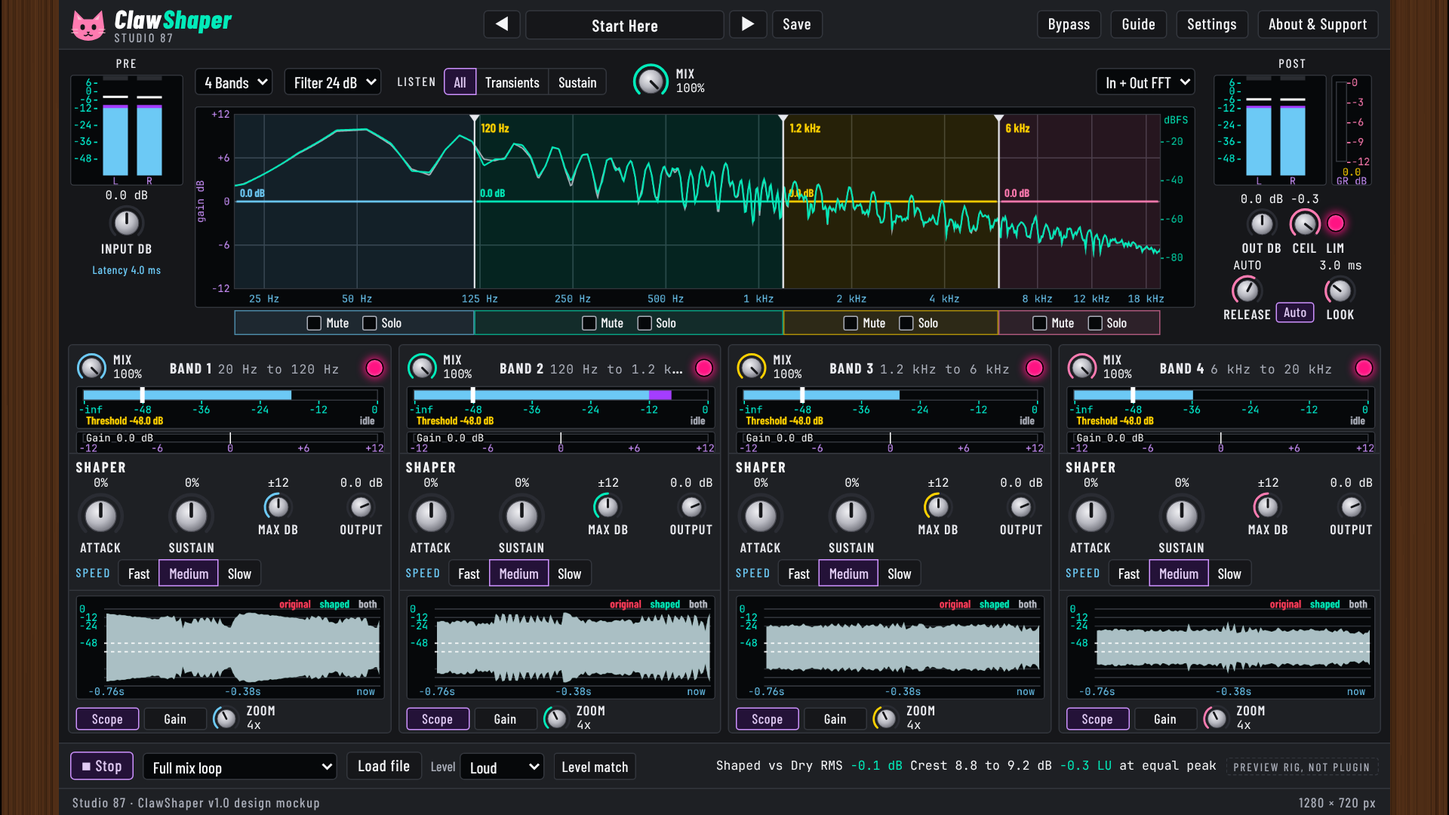
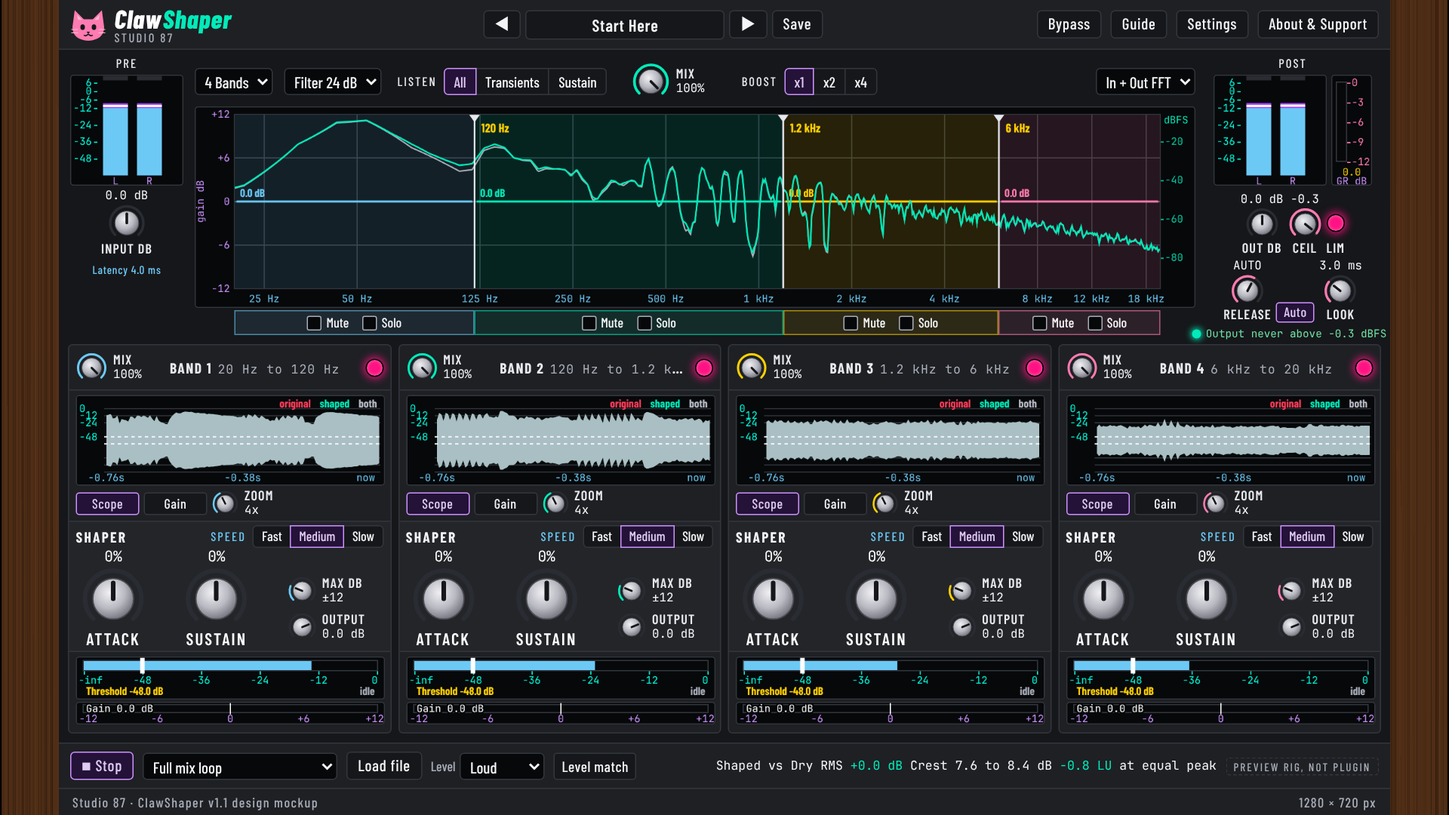
ClawShaper v1.1 mockup: Boost x1/x2/x4, Max dB to 48, visible output ceiling, shaper-first layout
Claude-Session: https://claude.ai/code/session_014jTCiZQibx9hUcNxrdBwQW

diff --git a/docs/mockup/ClawShaper.html b/docs/mockup/ClawShaper.html
@@ -177,6 +177,26 @@ canvas{display:block}
 .pb{height:410px}
 .pb{grid-template-columns:350px 1fr}
 
+.strip{display:flex;flex-direction:column}
+.strip .thead{padding:4px 6px 3px;border-bottom:1px solid var(--line);flex:none}
+.strip .dpart{flex:none;padding:4px 6px 2px}
+.strip .dpbot{margin-top:3px}
+.strip .cl{flex:none;height:auto;display:block;padding:2px 6px 4px;border-bottom:0;border-top:1px solid var(--line);background:rgba(255,255,255,.025)}
+.cl .shr{display:flex;align-items:center;justify-content:space-between;height:22px}
+.cl .shr .spd{margin-top:0}
+.cl .shr .seg button{height:20px;font-size:12px;padding:0 7px}
+.cl .krow{align-items:flex-end;justify-content:space-between;gap:6px;margin-top:0;padding:0 4px}
+.kb.hero .kv{font-size:13px;font-weight:600;height:15px;color:#fff}
+.kb.hero .kl{font-size:15px;letter-spacing:1.4px;color:#fff}
+.smallk{display:flex;flex-direction:column;gap:6px;justify-content:flex-end;padding-bottom:4px}
+.smallk .kb.h .kv{min-width:50px}
+.strip .tpart{flex:none;height:auto;border-top:1px solid var(--line);border-bottom:0;padding:4px 6px}
+.ceiln{font-size:11px;color:#6fe3a6;letter-spacing:.3px;display:flex;align-items:center;gap:5px;white-space:nowrap;margin-top:2px;font-family:var(--font-num)}
+.ceiln .lamp{width:8px;height:8px;border-radius:50%;background:#02EBBA;box-shadow:0 0 6px 1px #02EBBA;flex:none}
+.ceiln .lamp.off{background:#FF1383;box-shadow:0 0 6px 1px #FF1383}
+.ceiln{font-size:10px;letter-spacing:0;gap:4px;margin-top:0;max-width:156px;overflow:hidden}
+.ceiln{font-size:9.5px;max-width:none;overflow:visible;margin-left:-6px}
+
 </style>
 <div id="app" data-look="C">
   <div id="frame">
@@ -316,7 +336,7 @@ class Engine{
   this.anySolo=this.bp.some((b,i)=>i<this.nb&&b.solo);
   this.gMix=m.mix/100;this.gIn=D2L(m.inG);this.gOut=D2L(m.outG);this.ceil=D2L(m.lim.ceil);this.limOn=m.lim.on;this.limAuto=m.lim.auto;this.kLr=1-Math.exp(-1/(Math.max(1,m.lim.rel)*0.001*fs));
   this.LA=Math.max(1,Math.round(m.la*0.001*fs));if(this.LA!==this.mLL.la)this.mLL.setLA(this.LA);
-  this.lat=this.dLA+this.LA-1;this.listen=m.listen;this.bypass=!!m.byp}
+  this.lat=this.dLA+this.LA-1;this.listen=m.listen;this.boost=[1,2,4][m.boost|0];this.bypass=!!m.byp}
  /* ---- process one block, in place ---- */
  process(L,R,n){const fs=this.fs,nb=this.nb;let preP=0,postP=0,pl=0,pr=0,ql=0,qr=0,rpd=0,rpc=0;
   for(let i=0;i<n;i++){let xl=L[i],xr=R[i];
@@ -338,7 +358,7 @@ class Engine{
     const fdb=20*Math.log10(S.f+1e-6),sdb=20*Math.log10(S.s+1e-6),diff=fdb-sdb;          /* diff > 0: attack phase, diff < 0: sustain phase */
     S.lvl=fdb;S.diff=diff;
     let tg=0;if(p.on){const gate=clamp((fdb-p.thr)/GATE_W,0,1);S.gate=gate;
-     tg=(diff>0?p.atk*AK*softDz(diff):p.sus*SK*softDz(-diff))*gate;
+     tg=(diff>0?p.atk*AK*this.boost*softDz(diff):p.sus*SK*this.boost*softDz(-diff))*gate;
      if(p.lim>0.001)tg=p.lim*Math.tanh(tg/p.lim);else tg=0}
     S.cur+=(tg-S.cur)*(Math.abs(tg)>Math.abs(S.cur)?this.kGa:this.kGr);                  /* short attack / release on the gain: no zipper noise */
     const g=Math.exp(S.cur*0.1151293);
@@ -375,12 +395,12 @@ class Engine{
   this.bs.forEach(s=>{s.f=s.s=s.cur=0;s.wa=.5});this.bandDL.forEach(a=>a.forEach(d=>d.clear()));this.mixDry.forEach(d=>d.clear());this.dryTot.forEach(d=>d.clear());this.mLL.setLA(this.mLL.la===1?2:1);this.mLL.setLA(this.LA)}
 }
 /* default engine parameters (the UI builds the same object from the parameter table) */
-const DEFM=()=>({bands:4,slope:1,x:[120,1200,6000],mix:100,inG:0,outG:0,lim:{on:true,ceil:-0.3,rel:80,auto:true},la:3,listen:0,byp:false,
+const DEFM=()=>({bands:4,slope:1,x:[120,1200,6000],mix:100,inG:0,outG:0,lim:{on:true,ceil:-0.3,rel:80,auto:true},la:3,listen:0,boost:0,byp:false,
  b:[0,1,2,3].map(()=>({on:true,mute:false,solo:false,atk:0,sus:0,spd:1,thr:-48,max:12,outG:0,mix:100}))});
 
 
 /* ============ Product name: the only place the working name lives ============ */
-const NAME='ClawShaper', VERSION='1.0';   /* the only place the product name lives */
+const NAME='ClawShaper', VERSION='1.1';   /* the only place the product name lives */
 const REPO='SpeakingColors/clawshaper';
 const $=s=>document.querySelector(s), $$=s=>Array.from(document.querySelectorAll(s));
 const el=(t,c,h)=>{const e=document.createElement(t);if(c)e.className=c;if(h!==undefined)e.innerHTML=h;return e};
@@ -409,6 +429,7 @@ P('m.lAuto',0,1,1,{int:1,unit:'on/off',tip:'Auto release: the limiter lets go sl
 P('m.lRel',5,500,80,{log:1,unit:'ms',tip:'Limiter release in ms: how fast the limiter lets go after a peak. Used when Auto is off. 5 to 500 ms.'});
 P('m.la',1,7.5,3,{unit:'ms',tip:'Lookahead in ms, 1 to 7.5 (default 3). The limiter sees peaks this long before they play, so it can turn down smoothly. Longer is cleaner, shorter is lower latency. It sets the reported latency.'});
 P('m.listen',0,2,0,{int:1,ui:1,unit:'All/Transients/Sustain',tip:'Listen: hear the result (All), only the attack part (Transients) or only the sustain part (Sustain). The two parts add up to the shaped sound. Handy for setting a band by ear.'});
+P('m.boost',0,2,0,{int:1,unit:'x1/x2/x4',tip:'Boost: makes Attack and Sustain act harder, for extreme shaping. x1 is the normal range (default), x2 doubles and x4 quadruples how many dB each percent can add or take away. Raise a band Max dB to let it go further. The limiter at the end still keeps the output under the Ceiling.'});
 P('m.fft',0,3,1,{int:1,ui:1,unit:'off/in+out/in/out',tip:'Spectrum behind the bands. In + Out shows the input in grey and the output in green. The scale on the right is dBFS.'});
 for(let i=0;i<4;i++){const b='b'+i+'.',n='Band '+(i+1)+': ';
  P(b+'on',0,1,1,{int:1,unit:'on/off',tip:n+'power. Off lets the band pass untouched (it still goes through the crossover).'});
@@ -418,7 +439,7 @@ for(let i=0;i<4;i++){const b='b'+i+'.',n='Band '+(i+1)+': ';
  P(b+'sus',-100,100,0,{unit:'%',tip:n+'Sustain. Plus makes what comes after the hit louder (longer, fuller tails). Minus makes it shorter and tighter. 0 leaves it alone. Double-click for 0.'});
  P(b+'spd',0,2,1,{int:1,unit:'fast/medium/slow',tip:n+'Speed of the two level followers that tell the hit from the tail. Fast suits short clicks and hats, Medium suits most things, Slow suits long bass and pads.'});
  P(b+'thr',-60,0,-48,{unit:'dB',tip:n+'Threshold. Below this level the shaper does nothing, so quiet noise is not boosted. Drag the white slider on the level meter. Double-click it for -48.'});
- P(b+'max',0,24,12,{unit:'dB',tip:n+'Max gain: the most this band can be turned up or down by the shaper, in dB (0 to 24, default 12). Keeps strong settings from running away.'});
+ P(b+'max',0,48,12,{unit:'dB',tip:n+'Max gain: the most this band can be turned up or down by the shaper, in dB (0 to 48, default 12). Keeps strong settings from running away.'});
  P(b+'outG',-24,8,0,{unit:'dB',tip:n+'Output gain in dB, after the shaper and before the bands are added together. Double-click for 0.'});
  P(b+'mix',0,100,100,{unit:'%',tip:n+'Mix: shaped band against the untouched band (aligned in time). 100% is fully shaped.'});
  P(b+'view',0,1,0,{int:1,ui:1,unit:'scope/gain',tip:'Display: scope or gain history.'});
@@ -429,7 +450,7 @@ const posOf=(id,v)=>{const p=PS[id];return p.log?Math.log(v/p.min)/Math.log(p.ma
 const valOf=(id,t)=>{const p=PS[id];t=clamp(t,0,1);let v=p.log?p.min*Math.pow(p.max/p.min,t):p.min+t*(p.max-p.min);return p.int?Math.round(v):v};
 /* state to engine parameters */
 const xOf=()=>[st['m.x1'],st['m.x2'],st['m.x3']];
-function coreM(){return{bands:st['m.bands'],slope:st['m.slope'],x:xOf(),mix:st['m.mix'],inG:st['m.inG'],outG:st['m.outG'],lim:{on:!!st['m.limOn'],ceil:st['m.ceil'],rel:st['m.lRel'],auto:!!st['m.lAuto']},la:st['m.la'],listen:st['m.listen'],byp:!!st['m.byp'],
+function coreM(){return{bands:st['m.bands'],slope:st['m.slope'],x:xOf(),mix:st['m.mix'],inG:st['m.inG'],outG:st['m.outG'],lim:{on:!!st['m.limOn'],ceil:st['m.ceil'],rel:st['m.lRel'],auto:!!st['m.lAuto']},la:st['m.la'],listen:st['m.listen'],boost:st['m.boost'],byp:!!st['m.byp'],
  b:[0,1,2,3].map(i=>{const b='b'+i+'.';return{on:!!st[b+'on'],mute:!!st[b+'mute'],solo:!!st[b+'solo'],atk:st[b+'atk'],sus:st[b+'sus'],spd:st[b+'spd'],thr:st[b+'thr'],max:st[b+'max'],outG:st[b+'outG'],mix:st[b+'mix']}})}}
 /* ============ Formatting ============ */
 const fHz=v=>v>=1000?(v/1000).toFixed(v>=10000?1:2).replace(/\.?0+$/,'')+' kHz':(v>=100?Math.round(v):v.toFixed(1).replace(/\.0$/,''))+' Hz';
@@ -500,6 +521,7 @@ const lr2=el('div','limrow');colR.appendChild(lr2);
 knob(lr2,{id:'m.lRel',label:'Release',size:30,fmt:v=>st['m.lAuto']?'AUTO':fMs(v),color:'#FF7BB1'});
 {const w=el('div','kb');w.appendChild(el('div','kv',''));const t=toggle(w,'m.lAuto','Auto');t.style.cssText='margin:8px 0 0;height:18px';t.dataset.tip=PS['m.lAuto'].tip;w.appendChild(el('div','kl',''));w.dataset.tip=PS['m.lAuto'].tip;lr2.appendChild(w)}
 knob(lr2,{id:'m.la',label:'Look',size:30,fmt:v=>v.toFixed(1)+' ms',color:'#FF7BB1'});
+const ceilNote=el('div','ceiln','');ceilNote.dataset.tip='The limiter is always the last stage, whatever Mix, Boost, Max dB or Output gain you set: nothing leaves the plugin above the Ceiling. Change the Ceiling with the Ceil knob (-12 to 0 dB), or switch the limiter off with the Lim lamp.';colR.appendChild(ceilNote);
 /* ---- centre ---- */
 const ctr=el('div','ctr');
 const gtop=el('div','gtop');ctr.appendChild(gtop);
@@ -508,6 +530,7 @@ selectBox(gtop,'m.slope',SLOPE_LAB,PS['m.slope'].tip);
 {const lw=el('div','lst');lw.style.cssText='display:flex;align-items:center;gap:6px';lw.dataset.tip=PS['m.listen'].tip;lw.appendChild(el('span','cap','Listen'));
  seg(lw,'m.listen',['All','Transients','Sustain'],['Hear the shaped result, as it will leave the plugin (Mix applies).','Hear only the attack part of the shaped sound: the shaped sound minus its sustain part. Mix is ignored while listening.','Hear only the sustain part of the shaped sound (what is left after the attack part is taken away). Mix is ignored while listening.']);gtop.appendChild(lw)}
 knob(gtop,{id:'m.mix',label:'Mix',size:34,cls:'h mixk',fmt:fPct});
+{const bw=el('div','lst');bw.style.cssText='display:flex;align-items:center;gap:6px';bw.dataset.tip=PS['m.boost'].tip;bw.appendChild(el('span','cap','Boost'));seg(bw,'m.boost',['x1','x2','x4'],['Normal range (default).','Double: Attack and Sustain push twice as many dB per percent.','Four times: extreme shaping. Raise Max dB on a band to let it go further. The limiter still holds the Ceiling.']);gtop.appendChild(bw)}
 const gright=el('div','gright');gtop.appendChild(gright);
 selectBox(gright,'m.fft',['FFT off','In + Out FFT','Input FFT','Output FFT'],PS['m.fft'].tip);
 const cvG=el('canvas','cv');cvG.style.touchAction='none';cvG.dataset.tip='Frequency view, 20 Hz to 20 kHz. Drag the vertical dividers to move the crossovers. The coloured line in each band is the gain the shaper applies right now (left scale, -12 to +12 dB). Right scale: spectrum in dBFS.';ctr.appendChild(cvG);
@@ -522,28 +545,35 @@ const p1grid=el('div','p1');p1.appendChild(p1grid);p1grid.appendChild(colL);p1gr
 const strips=el('div','strips');p1.appendChild(strips);
 const S=[];
 const SW=271;
+const SCH=78;
 for(let i=0;i<4;i++){const b='b'+i+'.',col=BC[i];const so={};S.push(so);
  const strip=el('div','strip');so.el=strip;strips.appendChild(strip);
- const tp=el('div','tpart');strip.appendChild(tp);const l1=el('div','l1');tp.appendChild(l1);
+ /* 1 header */
+ const hd1=el('div','thead');strip.appendChild(hd1);const l1=el('div','l1');hd1.appendChild(l1);
  knob(l1,{id:b+'mix',label:'Mix',size:28,cls:'h',fmt:fPct,color:col});
  so.nm=el('div','bname','');so.nm.dataset.tip='Band '+(i+1)+' and the range of sound it works on. Move the crossovers in the graph to change it.';l1.appendChild(so.nm);
  powerBtn(l1,b+'on');
- so.cvIn=el('canvas','cv');so.cvIn.dataset.tip='Band level in dB (before shaping) with the Threshold slider. Drag the white slider: below it the shaper does nothing, so quiet noise is not boosted. The word on the right says whether the shaper is working right now. Scale in dB.';tp.appendChild(so.cvIn);so.cvIn.style.touchAction='none';so.gIn=hd(so.cvIn,SW,36,true);
- so.cvGr=el('canvas','cv');so.cvGr.dataset.tip='Gain change of this band: how many dB the shaper is turning the band up (right, gold) or down (left, purple) right now. Scale -12 to +12 dB.';tp.appendChild(so.cvGr);so.gGr=hd(so.cvGr,SW,18,true);so.cvGr.style.marginTop='2px';
- const cl=el('div','cl');strip.appendChild(cl);
- const th=el('div','st','SHAPER');cl.appendChild(th);
- const r1=el('div','krow');cl.appendChild(r1);
- knob(r1,{id:b+'atk',label:'Attack',size:44,color:col,fmt:fSgn});
- knob(r1,{id:b+'sus',label:'Sustain',size:44,color:col,fmt:fSgn});
- knob(r1,{id:b+'max',label:'Max dB',size:28,color:col,fmt:v=>'±'+v.toFixed(0)});
- knob(r1,{id:b+'outG',label:'Output',size:28,color:col,fmt:v=>fDb(v)});
- const r2=el('div','spd');cl.appendChild(r2);r2.appendChild(el('span','cap','Speed'));
- seg(r2,b+'spd',['Fast','Medium','Slow'],['Fast detectors: for short clicks, hats and snappy drums.','Medium detectors: a good start for most sounds.','Slow detectors: for long bass notes, pads and lead tails.']);
+ /* 2 the transient picture: scope on top */
  const dp=el('div','dpart');strip.appendChild(dp);
- so.cvSc=el('canvas','cv');so.cvSc.dataset.tip='Band display. Scope: red is the original band, green is the shaped band, grey is where they overlap, shown as a waveform shape in dB over the last seconds. Gain: how much the band was turned up or down over time, in dB. Choose with the buttons below; Zoom changes the time span.';dp.appendChild(so.cvSc);so.gSc=hd(so.cvSc,SW,90,true);
+ so.cvSc=el('canvas','cv');so.cvSc.dataset.tip='Transient picture of this band. Scope: red is the original band, green is the shaped band, grey is where they overlap, as a waveform shape in dB over the last seconds. Gain: how much the band was turned up or down over time, in dB. Choose with the buttons below; Zoom changes the time span.';dp.appendChild(so.cvSc);so.gSc=hd(so.cvSc,SW,SCH,true);
  const bt=el('div','dpbot');dp.appendChild(bt);
  [['Scope','Scope view: red is the original band, green the shaped band, grey where they overlap, as a waveform shape in dB.'],['Gain','Gain view: how many dB the shaper turned this band up or down over the last seconds.']].forEach(([t,tip],k)=>{const x=el('button','tgb',t);x.style.width='56px';x.dataset.tip=tip;x.onclick=()=>setP(b+'view',k,true);bt.appendChild(x);ctls.push({refresh(){x.classList.toggle('on',st[b+'view']===k)}})});
- knob(bt,{id:b+'zoom',label:'Zoom',size:26,color:col,fmt:v=>Math.round(1+v*7)+'x',cls:'h'});
+ knob(bt,{id:b+'zoom',label:'Zoom',size:24,color:col,fmt:v=>Math.round(1+v*7)+'x',cls:'h'});
+ /* 3 the shaper: the hero */
+ const cl=el('div','cl');strip.appendChild(cl);
+ const th=el('div','shr');cl.appendChild(th);th.appendChild(el('div','st','SHAPER'));
+ const r2=el('div','spd');th.appendChild(r2);r2.appendChild(el('span','cap','Speed'));
+ seg(r2,b+'spd',['Fast','Medium','Slow'],['Fast detectors: for short clicks, hats and snappy drums.','Medium detectors: a good start for most sounds.','Slow detectors: for long bass notes, pads and lead tails.']);
+ const r1=el('div','krow');cl.appendChild(r1);
+ knob(r1,{id:b+'atk',label:'Attack',size:58,color:col,fmt:fSgn,cls:'hero'});
+ knob(r1,{id:b+'sus',label:'Sustain',size:58,color:col,fmt:fSgn,cls:'hero'});
+ const sm=el('div','smallk');r1.appendChild(sm);
+ knob(sm,{id:b+'max',label:'Max dB',size:26,color:col,fmt:v=>'±'+v.toFixed(0),cls:'h'});
+ knob(sm,{id:b+'outG',label:'Output',size:26,color:col,fmt:v=>fDb(v),cls:'h'});
+ /* 4 secondary: level meter with threshold, gain change */
+ const tp=el('div','tpart');strip.appendChild(tp);
+ so.cvIn=el('canvas','cv');so.cvIn.dataset.tip='Band level in dB (before shaping) with the Threshold slider. Drag the white slider: below it the shaper does nothing, so quiet noise is not boosted. The word on the right says whether the shaper is working right now. Scale in dB.';tp.appendChild(so.cvIn);so.cvIn.style.touchAction='none';so.gIn=hd(so.cvIn,SW,36,true);
+ so.cvGr=el('canvas','cv');so.cvGr.dataset.tip='Gain change of this band: how many dB the shaper is turning the band up (right, gold) or down (left, purple) right now. Scale -12 to +12 dB.';tp.appendChild(so.cvGr);so.gGr=hd(so.cvGr,SW,18,true);so.cvGr.style.marginTop='2px';
 }
 /* ============ Graph interaction and drawing ============ */
 const DBT=[12,6,0,-6,-12],YDB=d=>GY0+(12-clamp(d,-12,12))/24*(GY1-GY0);
@@ -618,7 +648,7 @@ function drawStrips(){const n=st['m.bands'];
    [[-12,'-12'],[-6,'-6'],[0,'0'],[6,'+6'],[12,'+12']].forEach(([d,t])=>{g.fillText(t,clamp(X(d),10,w-8),h-1)});g.textAlign='left';g.lineWidth=3;g.strokeStyle=T.disp;const tx='Gain '+fDb(bs.cur);g.strokeText(tx,8,8);g.fillStyle='#fff';g.fillText(tx,8,8);g.lineWidth=1}
   const v=st[b+'view'];if(v===0)drawScope(i);else drawGainHist(i)}}
 function legend(g,w){g.font='700 10px Barlow Condensed,sans-serif';g.textAlign='right';let x=w-6;[['both','#b9bcc6'],['shaped','#02EBBA'],['original','#FF3D5A']].forEach(([t,c])=>{g.fillStyle=c;g.fillText(t,x,10);x-=g.measureText(t).width+8})}
-function drawScope(i){const g=S[i].gSc,w=SW,h=90,bs=eng.bs[i],b='b'+i+'.';g.fillStyle=T.disp;g.fillRect(0,0,w,h);const N=Math.round(480/(1+st[b+'zoom']*7)),cy=h/2,A=(h-22)/2;
+function drawScope(i){const g=S[i].gSc,w=SW,h=SCH,bs=eng.bs[i],b='b'+i+'.';g.fillStyle=T.disp;g.fillRect(0,0,w,h);const N=Math.round(480/(1+st[b+'zoom']*7)),cy=h/2,A=(h-22)/2;
  const ampY=a=>clamp((L2D(a)+54)/54,0,1)*A;
  g.strokeStyle=T.line;g.lineWidth=1;g.fillStyle='#01FCDC';g.font='9px JetBrains Mono,monospace';g.textAlign='left';
  [0,-12,-24,-48].forEach(d=>{const y=cy-(d+54)/54*A;g.beginPath();g.moveTo(24,y);g.lineTo(w-3,y);g.stroke();g.beginPath();g.moveTo(24,2*cy-y);g.lineTo(w-3,2*cy-y);g.stroke();g.fillText(String(d),2,y+3)});
@@ -628,7 +658,7 @@ function drawScope(i){const g=S[i].gSc,w=SW,h=90,bs=eng.bs[i],b='b'+i+'.';g.fill
  path(bs.scI,'#FF3D5A',.85);path(bs.scO,'#02EBBA',.85);path(mn,'#b9bcc6',.9);
  const thr=st[b+'thr'],ty=cy-(clamp(thr,-54,0)+54)/54*A;g.strokeStyle='#fff';g.setLineDash([3,3]);g.beginPath();g.moveTo(24,ty);g.lineTo(w-3,ty);g.stroke();g.beginPath();g.moveTo(24,2*cy-ty);g.lineTo(w-3,2*cy-ty);g.stroke();g.setLineDash([]);
  g.fillStyle='#6CC9F5';g.textAlign='center';g.font='9px JetBrains Mono,monospace';const secs=N*0.006;[1,.5,0].forEach((f,k)=>{g.fillText(f===0?'now':'-'+(secs*f).toFixed(2)+'s',clamp(26+(1-f)*(w-30),24,w-16),h-3)});legend(g,w)}
-function drawGainHist(i){const g=S[i].gSc,w=SW,h=90,b='b'+i+'.',N=Math.round(360/(1+st[b+'zoom']*7)),h0=eng.grHist[i],Y=d=>7+(12-clamp(d,-12,12))/24*(h-26);g.fillStyle=T.disp;g.fillRect(0,0,w,h);g.strokeStyle=T.line;g.fillStyle='#CD92FE';g.font='9px JetBrains Mono,monospace';g.textAlign='left';
+function drawGainHist(i){const g=S[i].gSc,w=SW,h=SCH,b='b'+i+'.',N=Math.round(360/(1+st[b+'zoom']*7)),h0=eng.grHist[i],Y=d=>7+(12-clamp(d,-12,12))/24*(h-26);g.fillStyle=T.disp;g.fillRect(0,0,w,h);g.strokeStyle=T.line;g.fillStyle='#CD92FE';g.font='9px JetBrains Mono,monospace';g.textAlign='left';
  [12,6,0,-6,-12].forEach(d=>{g.strokeStyle=d===0?'#4a4d55':T.line;g.beginPath();g.moveTo(26,Y(d));g.lineTo(w-3,Y(d));g.stroke();g.fillText((d>0?'+':'')+d,2,Y(d)+3)});
  g.beginPath();g.moveTo(26,Y(0));for(let k=0;k<N;k++){const v=h0[(eng.ghN+360-N+k)%360];g.lineTo(26+k/(N-1)*(w-30),Y(v))}g.lineTo(w-4,Y(0));g.closePath();g.fillStyle=hex2rgba(BC[i],.35);g.fill();g.strokeStyle=BC[i];g.lineWidth=1.6;g.stroke();
  g.fillStyle='#6CC9F5';g.textAlign='center';const secs=N/60;[1,.5,0].forEach(f=>{g.fillText(f===0?'now':'-'+(secs*f).toFixed(1)+'s',clamp(26+(1-f)*(w-30),26,w-14),h-3)})}
@@ -641,7 +671,7 @@ S.forEach((S1,i)=>{const ci=S1.cvIn;let td=false;const tset=e=>{const r=ci.getBo
 const TYPES=['Drums','Bass','Lead','Bus','Creative','Utility'];
 const SRCNAME={mix:'Full mix loop',kick:'Kick only',kb:'Kick + offbeat bass',drums:'Drum loop',bass:'Offbeat bass',lead:'Supersaw lead'};
 /* CS(name, type, tags, best source in the rig, global settings, per band settings) */
-function CS(name,type,tags,tryOn,g,bs){const p={};const G={bands:'m.bands',mix:'m.mix',ceil:'m.ceil',limOn:'m.limOn',inG:'m.inG',outG:'m.outG',la:'m.la',lAuto:'m.lAuto',lRel:'m.lRel'};
+function CS(name,type,tags,tryOn,g,bs){const p={};const G={bands:'m.bands',mix:'m.mix',ceil:'m.ceil',limOn:'m.limOn',inG:'m.inG',outG:'m.outG',la:'m.la',lAuto:'m.lAuto',lRel:'m.lRel',boost:'m.boost'};
  for(const k in g)if(G[k])p[G[k]]=g[k];
  if(g.slope)p['m.slope']=SLOPES.indexOf(g.slope);if(g.x)g.x.forEach((v,i)=>p['m.x'+(i+1)]=v);
  (bs||[]).forEach((o,i)=>{if(!o)return;for(const k in o)p['b'+i+'.'+k]=o[k]});
@@ -662,6 +692,9 @@ const FACT=[
  CS('Soften Harsh Attacks','Bus',['soften','harsh','de-click'],'lead',{bands:4,slope:24,x:[150,1500,5000]},[{},{},{atk:-30,spd:1},{atk:-50,spd:0,thr:-54}]),
  CS('Room Away','Utility',['room','dry','tail'],'drums',{bands:3,slope:24,x:[150,8000]},[{},{sus:-50,spd:1},{sus:-30,spd:0}]),
  CS('Offbeat Chop','Creative',['bass','chop','gate'],'bass',{bands:2,slope:24,x:[250]},[{atk:30,sus:-90,spd:0,max:24},{sus:-60,spd:0}]),
+ CS('Kick Smash','Creative',['kick','extreme','boost'],'kick',{bands:3,slope:24,x:[90,4000],boost:2,ceil:-0.5},[{atk:60,sus:-60,spd:1,max:36},{atk:100,sus:-70,spd:0,max:48},{atk:70,spd:0,max:30}]),
+ CS('Sustain Bloom','Creative',['sustain','extreme','boost'],'drums',{bands:3,slope:24,x:[200,5000],boost:2,ceil:-0.5},[{sus:60,spd:2,thr:-54,max:30},{sus:100,spd:1,thr:-54,max:48},{sus:70,spd:0,thr:-56,max:36}]),
+ CS('Pluck Slam','Lead',['lead','pluck','extreme'],'lead',{bands:2,slope:24,x:[250],boost:1,ceil:-0.5},[{atk:50,sus:-30,spd:1,max:30},{atk:100,sus:-50,spd:0,max:36}]),
  CS('Mastering Touch','Bus',['master','gentle','glue'],'mix',{bands:4,slope:24,x:[120,1200,6000],ceil:-0.3},[{atk:8,sus:5,spd:2,max:3},{atk:8,sus:5,spd:2,max:3},{atk:8,sus:5,spd:2,max:3},{atk:8,sus:5,spd:2,max:3}])
 ];
 let userP=[];
@@ -734,6 +767,7 @@ function syncUI(){normX();
  ctls.forEach(c=>c.refresh());layoutMS();
  const ed=bandEdges(),nb=st['m.bands'];
  S.forEach((s,i)=>{s.nm.innerHTML='BAND '+(i+1)+(i<nb?'<small>'+fHz(ed[i])+' to '+fHz(ed[i+1])+'</small>':'<small>unused</small>')});
+ ceilNote.innerHTML=st['m.limOn']?'<span class="lamp"></span>Output never above '+st['m.ceil'].toFixed(1)+' dBFS':'<span class="lamp off"></span>Limiter off: output not capped';
  app.classList.toggle('ro-off',!sys.ro);
  latTxt.textContent='Latency '+(eng.lat/eng.fs*1000).toFixed(1)+' ms';
  const dirty=isDirty();$('#pName').textContent=curName+(dirty?' *':'');
@@ -753,12 +787,12 @@ $('#bGuide').onclick=()=>openModal('Guide',`<div class="gcols"><div><h3 class="g
 <li><b>A transient shaper with split bands.</b> It turns the first hit of a sound (Attack) and what comes after it (Sustain) up or down, in up to four frequency bands, so you choose which part of the sound it works on. A limiter at the end keeps the level safe.</li>
 <li><b>How it tells hit from tail:</b> two level followers, a fast one and a slow one, watch each band. When the fast one is above the slow one a hit is starting (attack). When it is below, the sound is dying away (sustain). The difference in dB, not the level, drives the gain, so it works the same on quiet and loud material.</li>
 <li><b>Threshold</b> keeps it from boosting noise: below it the band is left alone. <b>Max dB</b> limits how far a band can be pushed.</li>
-<li><b>Listen:</b> Transients plays only the attack part, Sustain only the rest; the two add up to the shaped sound.</li>
+<li><b>Boost</b> (x1, x2, x4) multiplies how hard Attack and Sustain act; x1 is the normal range. Max dB goes up to 48. The limiter always comes last, so the output never goes above the Ceiling, even at the most extreme setting.</li><li><b>Listen:</b> Transients plays only the attack part, Sustain only the rest; the two add up to the shaped sound.</li>
 <li><b>Mix</b> blends against the true input, delayed to match, so Mix 0% is exactly the input. Not affiliated with anyone.</li></ul>
 <h3 class="gh">Where to start</h3><ul class="gl"><li>Load Start Here, play Kick only or Drum loop, set a band to Attack +50, then press <kbd>B</kbd> to compare. Try Listen: Transients to hear what you are boosting.</li><li>Thicken a lead: Supersaw Body or Lead Thicken, then play Supersaw lead.</li></ul>
 <h3 class="gh">Keys</h3><table><tr><td><kbd>Space</kbd></td><td>Play or stop the preview</td></tr><tr><td><kbd>B</kbd></td><td>Bypass (A/B)</td></tr><tr><td><kbd>[</kbd> <kbd>]</kbd></td><td>Previous or next preset</td></tr><tr><td>Knobs</td><td>Drag, wheel, arrows; Shift for fine; double-click resets</td></tr></table></div>
 <div><h3 class="gh">What is verified and what is ours</h3><p><span class="vt">Given to us by the maker (the brief):</span> the control set (Input and Output gain, Mix, 1 to 4 bands with draggable crossovers, slope menu 12 to 96 dB/oct with 24 as default, per band On, Mute, Solo, Attack, Sustain, Speed, Threshold, Max gain, Output and Mix, Listen All, Transients or Sustain, limiter with Ceiling, Release with Auto and Lookahead 1 to 7.5 ms with 3 as default), the scope colours (red original, green shaped, grey overlap), and dB scales on every meter. The crossover, limiter and spectrum code is reused from our MultiPaw mockup, where the bands were tested to add back flat.</p>
-<p><span class="ou">Ours (our own DSP choices; we had no source for any commercial transient shaper):</span> everything that decides the sound. Two peak followers on the stereo linked rectified band signal (fast about 1 ms attack and 20 ms release, slow about 20 ms and 120 ms at Medium; Fast and Slow scale them; low bands are slowed down so a bass tone is not mistaken for hits). Difference in dB, 1 dB dead zone, Attack gain 1.5 dB per dB of difference at 100%, Sustain 4 dB per dB at 100%, soft limit at Max dB, gain smoothing 0.5 ms up and 5 ms down, soft gate over the Threshold. The audio is delayed 1 ms against the detector so the gain is ready when a hit arrives. Listen weights the attack and sustain parts by how far the difference is from zero (6 dB wide cross-fade). Crossovers are Linkwitz-Riley with all-pass compensation. The limiter is a lookahead limiter with a sliding minimum and a moving average; Auto release is 30 ms plus 10 ms per dB of reduction. The factory presets are starting points: we measured them, we cannot listen.</p>
+<p><span class="ou">Ours (our own DSP choices; we had no source for any commercial transient shaper):</span> everything that decides the sound. Two peak followers on the stereo linked rectified band signal (fast about 1 ms attack and 20 ms release, slow about 20 ms and 120 ms at Medium; Fast and Slow scale them; low bands are slowed down so a bass tone is not mistaken for hits). Difference in dB, 1 dB dead zone, Attack gain 1.5 dB per dB of difference at 100%, Sustain 4 dB per dB at 100% (both times the Boost factor 1, 2 or 4), soft limit at Max dB, gain smoothing 0.5 ms up and 5 ms down, soft gate over the Threshold. The audio is delayed 1 ms against the detector so the gain is ready when a hit arrives. Listen weights the attack and sustain parts by how far the difference is from zero (6 dB wide cross-fade). Crossovers are Linkwitz-Riley with all-pass compensation. The limiter is a lookahead limiter with a sliding minimum and a moving average; Auto release is 30 ms plus 10 ms per dB of reduction. The factory presets are starting points: we measured them, we cannot listen.</p>
 <p>Signal flow: Input gain, crossover, per band (detector, gain, 1 ms delay, Mix, Output, Mute and Solo), sum, Mix against the delayed true input, Output gain, limiter. Bypass plays the delayed input. This unit keeps its parameter ids stable (m.* and b0.* to b3.*) so it can also live inside CatRack.</p></div></div>`,null,'1100px');
 $('#bAbout').onclick=()=>openModal('About & Support',`<p><b>${esc(NAME)}</b> by Studio 87, version ${VERSION} (design mockup). A free open source transient shaper with split bands and a limiter. Licence AGPL-3.0-or-later. Collects nothing and never uses the network.</p>
 <div class="aboutbtns"><a class="btn" href="https://github.com/${REPO}" target="_blank" rel="noopener">GitHub</a><a class="btn" href="https://github.com/${REPO}/releases" target="_blank" rel="noopener">Releases</a><a class="btn" href="https://ko-fi.com/studio87" target="_blank" rel="noopener">Ko-fi studio87</a></div>

diff --git a/README.md b/README.md
@@ -12,9 +12,9 @@ Design mockup only. The interactive mockup in `docs/mockup/` runs a WebAudio pre
 Open `docs/mockup/ClawShaper.html` in a browser. Nothing is sent anywhere; it works offline (fonts load from Google Fonts when online, with a fallback).
 
 ## Controls in the mockup
-Input dB, Mix, Out dB, Ceil, Lim, Release, Look, Attack, Sustain, Max dB, Output, Zoom
+Input dB, Mix, Out dB, Ceil, Lim, Release, Look, Zoom, Attack, Sustain, Max dB, Output
 
-Every control has a hover info bubble (112 in total).
+Every control has a hover info bubble (117 in total).
 
 ## Privacy
 Collects nothing. No network access.
